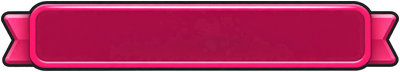
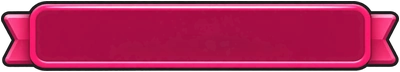
Survival skin: lossy re-encode of the new interface art
The P1/P2 interface art arrived as lossless WebP (modal-bg 117KB, info-bg and
footer-deco 73KB each). Re-encoded: q88 for panels/tile/icons, q95 with full
alpha for the thin-outline label bars; side-by-side at 2x shows no visible
difference. Total for these nine files ~400KB -> ~95KB. build_ui.py now
exports the same way.

Claude-Session: https://claude.ai/code/session_01RJeVJMuYzo65EoYMDtb9rb

diff --git a/event/20261111_lucky_wheel/skins/survival/tools/build_ui.py b/event/20261111_lucky_wheel/skins/survival/tools/build_ui.py
@@ -6,8 +6,9 @@ import numpy as np,json
 R=Path(__file__).resolve().parents[1];S=R/'source/ui';O=R/'img'
 sizes={'modal-bg':(600,760),'btn-primary':(400,110),'period-badge':(480,64),'chances-badge':(360,88),'ticker-bar':(690,64),'card-frame':(120,120),'card-title':(400,72),'footer-deco':(750,160),'icon-sound-on':(64,64),'icon-sound-off':(64,64),'icon-share':(64,64),'icon-rotate':(160,160)}
 updated=[]
+SHARP={'ticker-bar','chances-badge','card-title','period-badge'}
 def save(n,im):
- im.save(O/(n+'.webp'),lossless=True,method=2);(O/(n+'.svg')).unlink(missing_ok=True);updated.append(n)
+ im.save(O/(n+'.webp'),quality=95 if n in SHARP else 88,method=6,alpha_quality=100 if n in SHARP else 95);(O/(n+'.svg')).unlink(missing_ok=True);updated.append(n)
 for n,size in sizes.items():
  im=Image.open(S/(n+'-original.png')).convert('RGBA');im.putalpha(im.getchannel('A').point(lambda a:round(max(0,a-210)*255/45)));box=im.getbbox();im=im.crop(box)
  if n in ['modal-bg','card-frame']:
